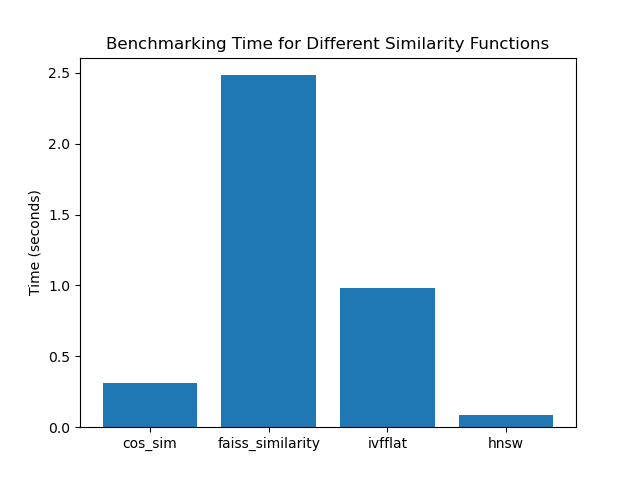
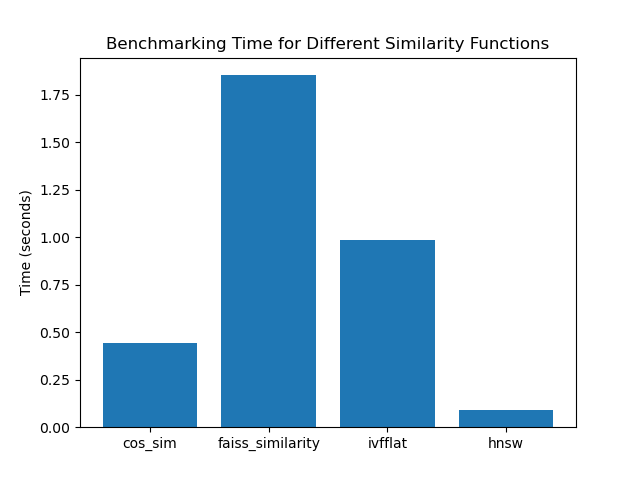
final commit

diff --git a/utils.py b/utils.py
@@ -81,49 +81,6 @@ def faiss_similarity(query, data, topk=5, threshold=None, index=None):
         similarities = similarities[mask]
     return indices, similarities
 
-def bm25_similarity(query, data, topk=5, threshold=0.25):
-    """
-    Compute BM25 similarity.
-    """
-    bm25 = BM25Okapi(data)
-    scores = bm25.get_scores(query)
-    
-    # Get topk indices
-    topk_indices = np.argsort(scores)[-topk:][::-1]
-    topk_scores = scores[topk_indices]
-    # Filter out values below the threshold
-    if threshold is not None:
-        mask = topk_scores > threshold
-        topk_indices = topk_indices[mask]
-        topk_scores = topk_scores[mask]
-    return topk_indices, topk_scores
-
-def tfidf_similarity(query, data, topk=5, threshold=0.25):
-    """
-    Compute TF-IDF similarity.
-    """
-    vectorizer = TfidfVectorizer()
-    tfidf_matrix = vectorizer.fit_transform(data)
-    
-    # Transform the query
-    query_vector = vectorizer.transform([query])
-    
-    # Compute cosine similarity
-    cosine_similarities = cosine_similarity(query_vector, tfidf_matrix).flatten()
-    
-    # Get topk indices
-    topk_indices = np.argsort(cosine_similarities)[-topk:][::-1]
-    topk_scores = cosine_similarities[topk_indices]
-    
-    # Filter out values below the threshold
-    if threshold is not None:
-        mask = topk_scores > threshold
-        topk_indices = topk_indices[mask]
-        topk_scores = topk_scores[mask]
-        
-    return topk_indices, topk_scores
-
-
 def ivfflat(query, data, topk=5, threshold=None, sql=None):
     """
     Compute Ivfflat similarity.
@@ -193,3 +150,44 @@ def hnsw(query, data, topk=5, threshold=None, sql=None):
     return topk_indices, topk_scores
 
         
+def bm25_similarity(query, data, topk=5, threshold=0.25):
+    """
+    Compute BM25 similarity.
+    """
+    bm25 = BM25Okapi(data)
+    scores = bm25.get_scores(query)
+    
+    # Get topk indices
+    topk_indices = np.argsort(scores)[-topk:][::-1]
+    topk_scores = scores[topk_indices]
+    # Filter out values below the threshold
+    if threshold is not None:
+        mask = topk_scores > threshold
+        topk_indices = topk_indices[mask]
+        topk_scores = topk_scores[mask]
+    return topk_indices, topk_scores
+
+def tfidf_similarity(query, data, topk=5, threshold=0.25):
+    """
+    Compute TF-IDF similarity.
+    """
+    vectorizer = TfidfVectorizer()
+    tfidf_matrix = vectorizer.fit_transform(data)
+    
+    # Transform the query
+    query_vector = vectorizer.transform([query])
+    
+    # Compute cosine similarity
+    cosine_similarities = cosine_similarity(query_vector, tfidf_matrix).flatten()
+    
+    # Get topk indices
+    topk_indices = np.argsort(cosine_similarities)[-topk:][::-1]
+    topk_scores = cosine_similarities[topk_indices]
+    
+    # Filter out values below the threshold
+    if threshold is not None:
+        mask = topk_scores > threshold
+        topk_indices = topk_indices[mask]
+        topk_scores = topk_scores[mask]
+        
+    return topk_indices, topk_scores

diff --git a/time_benchmarck.py b/time_benchmarck.py
@@ -9,7 +9,7 @@ import faiss
 np.random.seed(42)
 embeddings = np.random.rand(100_000, 1000).astype(np.float32)
 query = np.random.rand(1, 1000).astype(np.float32)
-top_k = 10
+top_k = 1000
 times = np.zeros((4))
 #%%
 # Init SQL 
@@ -23,28 +23,28 @@ index.add(embeddings)
 #%% 
 # Benchmarking cos_sim 
 ts = time.process_time()
-similar_indices, similar_scores = cos_sim_numpy(query, embeddings, topk=top_k)
+similar_indices_knn, similar_scores_knn = cos_sim_numpy(query, embeddings, topk=top_k)
 te = time.process_time() - ts
 times[0] = te
 print(f"cos_sim took {te:.5f} seconds")
 #%% 
 # Benchmarking faiss_similarity
 ts = time.process_time()
-similar_indices, similar_scores = faiss_similarity(query, embeddings, topk=top_k, index=index)
+similar_indices_faiss, similar_scores_faiss = faiss_similarity(query, embeddings, topk=top_k, index=index)
 te = time.process_time() - ts
 times[1] = te
 print(f"faiss_similarity took {te:.5f} seconds")
 #%%
 # Benchmarking ivfflat
 ts = time.process_time()
-similar_indices, similar_scores = ivfflat(query, embeddings, topk=top_k, sql=sql)
+similar_indices_ivfflat, similar_scores_ivfflat = ivfflat(query, embeddings, topk=top_k, sql=sql)
 te = time.process_time() - ts
 times[2] = te
 print(f"ivfflat took {te:.5f} seconds")
 #%%
 # Benchmarking hnsw
 ts = time.process_time()
-similar_indices, similar_scores = hnsw(query, embeddings, topk=top_k, sql=sql)
+similar_indices_hnsw, similar_scores_hnsw = hnsw(query, embeddings, topk=top_k, sql=sql)
 te = time.process_time() - ts
 times[3] = te
 print(f"hnsw took {te:.5f} seconds")
@@ -55,4 +55,3 @@ plt.title('Benchmarking Time for Different Similarity Functions')
 plt.savefig('Results/benchmarking_time.png')
 plt.show()
 #%%
-sql.close()

diff --git a/verify.py b/verify.py
@@ -69,3 +69,46 @@ plt.title("Negative Sentences")
 plt.savefig("Results/negative_sent.png")
 plt.show()
 # %%
+fig, ax = plt.subplots(2, 2, figsize=(10, 10))
+ax[0, 0].bar(
+    pos_clip_sum.index,
+    pos_clip_sum.values,
+    label="Positive Clip",
+    color="blue"
+)
+ax[0, 0].set_ylabel("True Positive")
+ax[0, 0].set_title("Positive Clip")
+ax[0, 0].set_ylim(0, 10)
+
+ax[0, 1].bar(
+    neg_clip_sum.index,
+    neg_clip_sum.values,
+    label="Negative Clip",
+    color="red",
+)
+ax[0, 1].set_ylabel("True Negative")
+ax[0, 1].set_title("Negative Clip")
+ax[0, 1].set_ylim(0, 5)
+
+ax[1, 0].bar(
+    pos_sent_sum.index,
+    pos_sent_sum.values,
+    label="Positive Sent",
+    color="green"
+)
+ax[1, 0].set_ylabel("True Positive")
+ax[1, 0].set_title("Positive Sentences")
+ax[1, 0].set_ylim(0, 10)
+
+ax[1, 1].bar(
+    neg_sent_sum.index,
+    neg_sent_sum.values,
+    label="Negative Sent",
+    color="orange",
+)
+ax[1, 1].set_ylabel("True Negative")
+ax[1, 1].set_title("Negative Sentences")
+ax[1, 1].set_ylim(0, 5)
+plt.tight_layout()
+plt.savefig("Results/positive_negative.png")
+plt.show()
